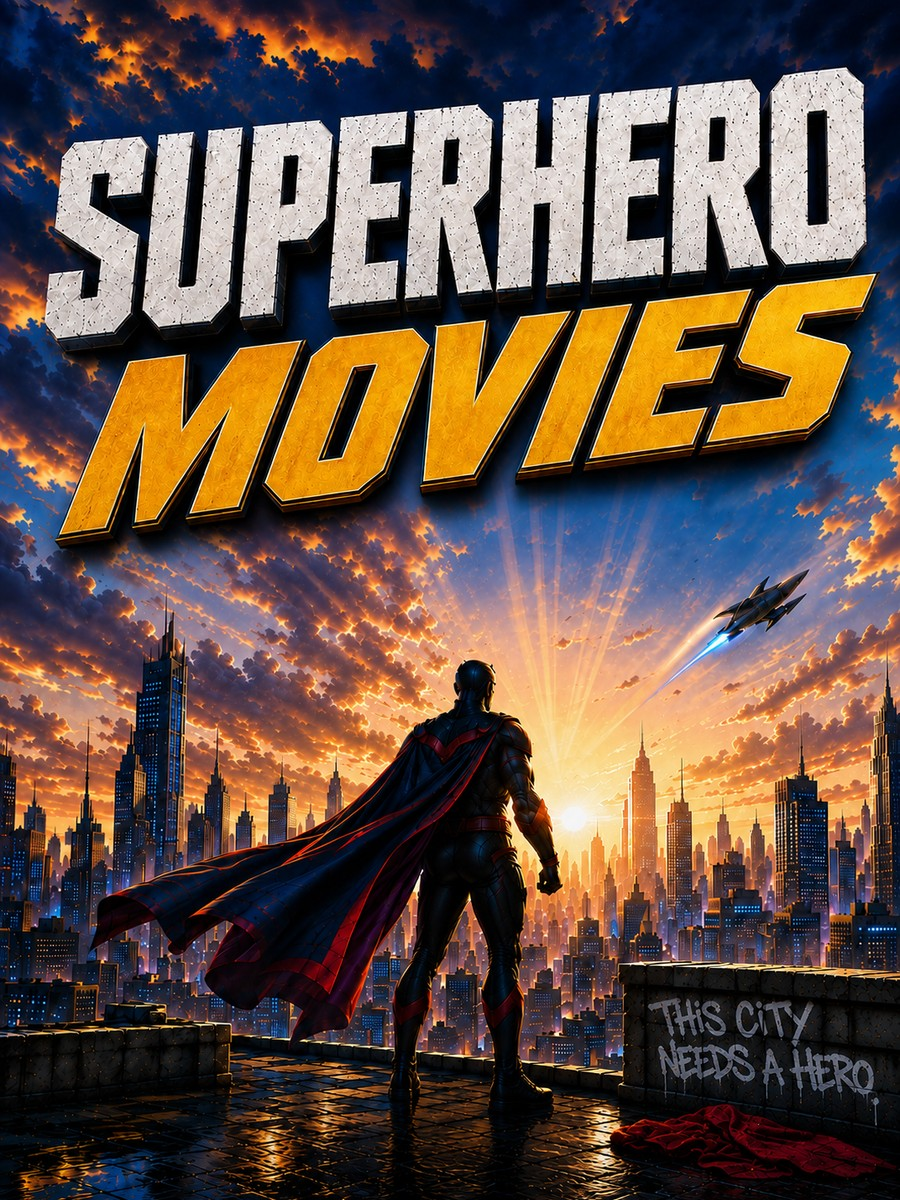
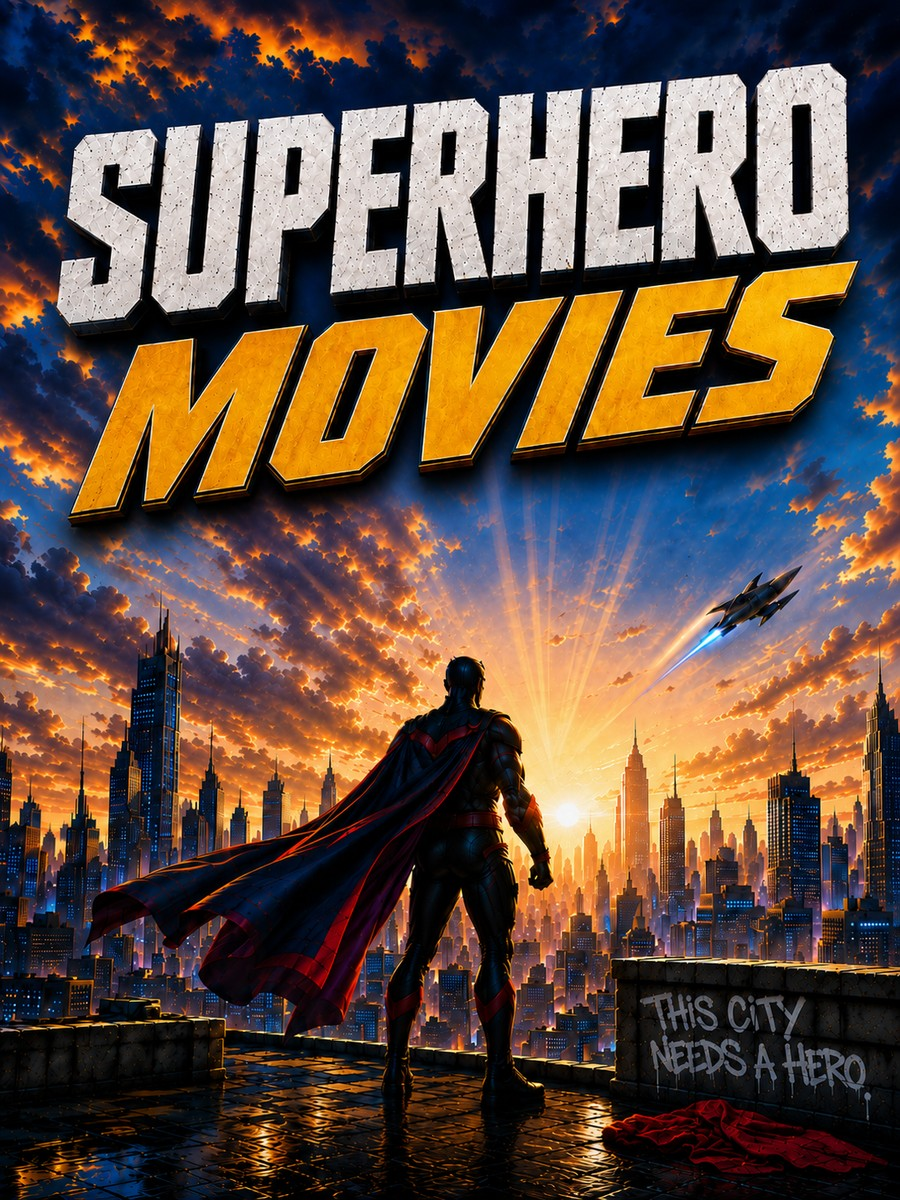
v255: Superhero regenerated at exact 3:4, and nothing drifted
I argued against this run - the previous file was trimmed by 3 pixels, 0.2%,
and my worry was that a reroll would cost more than it gained, since the last
three regenerations each changed something nobody asked for. That worry was
wrong here. 1086x1448 exactly, no crop, and every deliberate element survived:

  - the graffiti on the ledge reading THIS CITY NEEDS A HERO
  - the plain red cloth that replaced the domino mask
  - the figure seen from behind: no face, no chest emblem, generic dark suit
    with red trim and a plain cape

Checked the figure at full resolution specifically for an emblem, since that is
the only thing on this poster that could point at a particular publisher's
character. There is none.

351 KB, down from 367 - the wider framing carries slightly less fine detail.

Claude-Session: https://claude.ai/code/session_012avjdYG8yRCMZ3uJswRWwC

diff --git a/index.html b/index.html
@@ -911,7 +911,7 @@ function eraOf(v){ return ERA[v.id]||'neon'; }
    page arrives with ?open=, so the lookup returned '0' and every plate URL was busted
    with ?v=0 forever - an updated plate would never reach anyone who had opened that
    sheet once. Kept in step with the printed build tag by the release step. */
-var SFSBUILD='v254';
+var SFSBUILD='v255';
 var CARDART={"adele":{"o":"#F4A330"},"arianagrande":{"o":"#FFF6E0","l":1},"ate":{"o":"#DAA459"},"beatles":{"o":"#FFF6E0","l":1},"beyonce":{"o":"#FDB728"},"biggie":{"o":"#FDC472"},"billieeilish":{"o":"#B9C709"},"billyjoel":{"o":"#DBB17D"},"bonjovi":{"o":"#FFF6E0","l":1},"bowie":{"o":"#F7AF7C"},"brunomars":{"o":"#FEA928"},"carrieunderwood":{"o":"#D9B87A"},"ccr":{"o":"#F2C772"},"chrisstapleton":{"o":"#F2BA7D"},"codyjohnson":{"o":"#85C9EB"},"coldplay":{"o":"#E9BA87"},"dmb":{"o":"#2A1305"},"dualipa":{"o":"#A3ABC1"},"eagles":{"o":"#261C12"},"edsheeran":{"o":"#ECAB84"},"ellalangley":{"o":"#F1987E"},"eminem":{"o":"#D1B99F"},"faithhill":{"o":"#F3A63D"},"fleetwoodmac":{"o":"#BEC5C8"},"foo":{"o":"#F69F6D"},"fthc":{"o":"#3D3717"},"gratefuldead":{"o":"#FFF6E0","l":1},"greenday":{"o":"#CEB799"},"grunge90s":{"o":"#EFC973"},"harrystyles":{"o":"#F99B37"},"hendrix":{"o":"#FFF6E0","l":1},"jasonaldean":{"o":"#EAAE5F"},"jellyroll":{"o":"#301407"},"justintimberlake":{"o":"#B1C1D3"},"katyperry":{"o":"#3DC2D8"},"kennychesney":{"o":"#F6C587"},"kidstoybox":{"o":"#002848"},"ladygaga":{"o":"#FFBD46"},"laineywilson":{"o":"#FFF6E0","l":1},"ledzeppelin":{"o":"#E6AE57"},"lukebryan":{"o":"#332818"},"lukecombs":{"o":"#F19F31"},"maroon5":{"o":"#642F09"},"metallica":{"o":"#EABE95"},"morganwallen":{"o":"#DB9D94"},"mv_action":{"o":"#F0AD51"},"mv_animated":{"o":"#FFF6E0","l":1},"mv_comedy":{"o":"#FFF6E0","l":1},"mv_crime":{"o":"#F0AF37"},"mv_drama":{"o":"#DCA969"},"mv_fantasy":{"o":"#FAAA41"},"mv_horror":{"o":"#DBC27D"},"mv_romance":{"o":"#FFF6E0","l":1},"mv_scifi":{"o":"#26BDF5"},"mv_sports":{"o":"#FFF6E0","l":1},"mv_superhero":{"o":"#1C1B26"},"mv_war":{"o":"#1F150C"},"nirvana":{"o":"#CACACB"},"oasis":{"o":"#DDBA92"},"onedirection":{"o":"#F4A62D"},"pearljam":{"o":"#FFF6E0","l":1},"postmalone":{"o":"#FBA874"},"queen":{"o":"#F1BE78"},"rhcp":{"o":"#FFF6E0","l":1},"rihanna":{"o":"#BBAB97"},"selenagomez":{"o":"#FFF6E0","l":1},"shaboozey":{"o":"#DEB177"},"smashingpumpkins":{"o":"#BCAEC2"},"springsteen":{"o":"#E6A59C"},"stones":{"o":"#FFF6E0","l":1},"stp":{"o":"#FFF6E0","l":1},"summerbeach":{"o":"#FFF6E0","l":1},"taylorswift":{"o":"#D4A26D"},"thewho":{"o":"#F0C382"},"timmcgraw":{"o":"#251C0A"},"tompetty":{"o":"#FFF6E0","l":1},"tv_binge":{"o":"#D9B87A"},"tv_cartoon":{"o":"#171F6C"},"tv_gameshow":{"o":"#000B4D"},"tv_growingup":{"o":"#86B6F7"},"tv_oldschool":{"o":"#D9B87A"},"tv_scifi":{"o":"#66BBF7"},"tv_sitcom":{"o":"#C8AE93"},"u2":{"o":"#7EC0F2"},"zachbryan":{"o":"#191F15"}};
 function coverHTML(v,label){
  var e=eraOf(v);
@@ -1489,4 +1489,4 @@ brandBarState();
  setTimeout(go, 1500);
 })();
 </script>
-<div id="buildtag">v254</div><style>#buildtag{position:fixed;left:5px;bottom:3px;z-index:99999;font:700 9px/1 system-ui,sans-serif;color:rgba(255,255,255,.30);pointer-events:none;letter-spacing:.5px}</style></body></html>
+<div id="buildtag">v255</div><style>#buildtag{position:fixed;left:5px;bottom:3px;z-index:99999;font:700 9px/1 system-ui,sans-serif;color:rgba(255,255,255,.30);pointer-events:none;letter-spacing:.5px}</style></body></html>

diff --git a/sw.js b/sw.js
@@ -1,4 +1,4 @@
-var CACHE='sfs-v254';
+var CACHE='sfs-v255';
 /* IMPORTANT: do NOT precache the HTML documents. If the app shell is cached, an installed PWA
    can launch straight from cache and bypass Cloudflare Access. Keeping only static assets here
    forces every page launch to hit the network, so the Access login is always enforced. */
